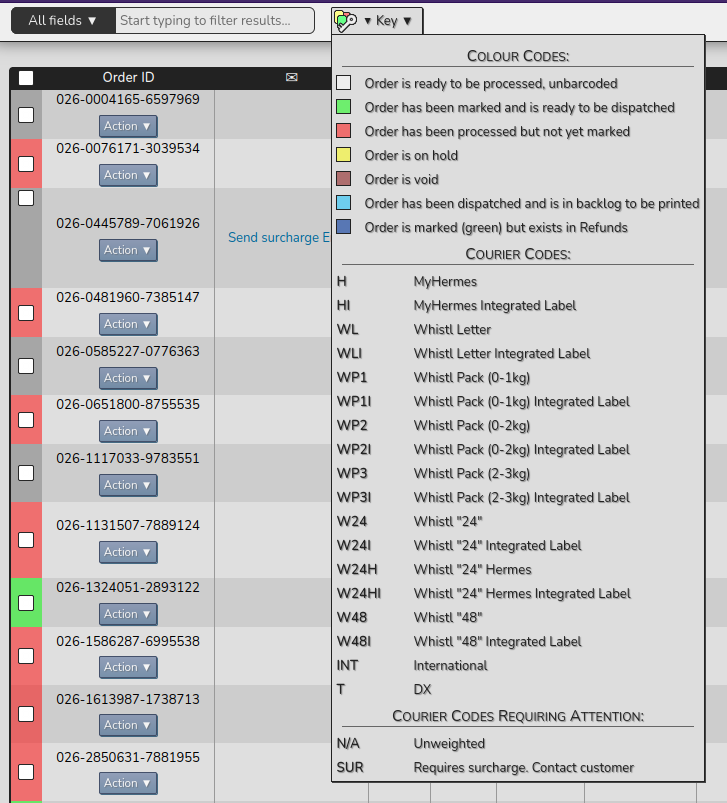
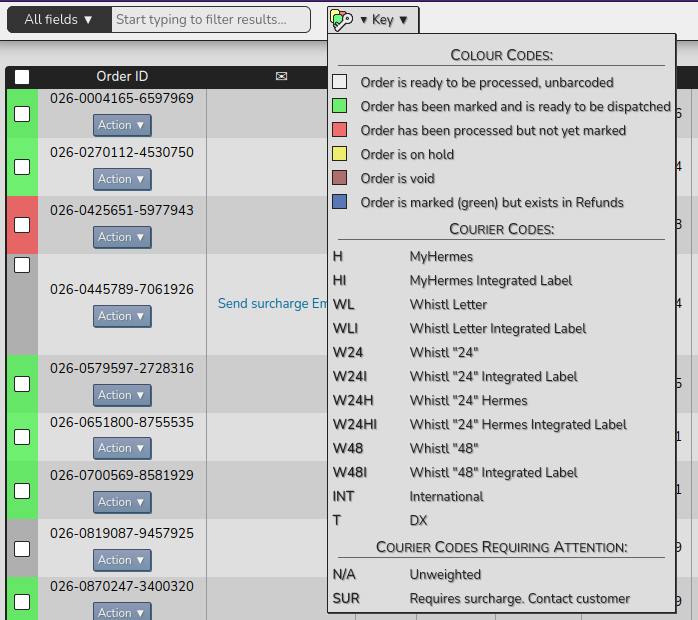
update README

Changed region(s): [[0.0, 0.0, 1.0, 1.0]]

diff --git a/README.md b/README.md
@@ -23,7 +23,7 @@ The `Action` menu in the top right has several batch operations that can be used
 
 ![Image of batch actions](docs/imgs/batch_actions.png)
 
-The 'Colour Codes', in the `Key` drop-down, explains the meaning of the colours on the far left of the order's row. In the example shown, the majority are grey (white) "Order is ready to be processed, unbarcoded" and red "Order has been processed but not yet marked". The green order (026-1324051-2893122) indicates that "Order has been marked and is ready to be dispatched".
+The 'Colour Codes', in the `Key` drop-down, explains the meaning of the colours on the far left of the order's row. In the example shown, the first 2 are green "Order has been marked and is ready to be dispatched". Then red "Order has been processed but not yet marked" and grey "Order is ready to be processed, unbarcoded".
 
 ![Image of view orders key](docs/imgs/vo_key.png)
 
@@ -32,9 +32,18 @@ Final notes: The product descriptions in the 'Items' column are hyperlinks that 
 
 ## Scan Barcodes
 
+The barcodes DB table stores the status of the order:
+
+* GENERATED (displays as red in View Orders)
+* MARKED (green)
+* VOID (brown)
+* HOLD (yellow)
+
+Nb. grey are orders that don't yet have a barcode
+
 ![Image of Scan Barcodes](docs/imgs/scan_barcodes.png)
 
-Lost focus
+The barcode scanner can only input barcodes if the page is in focus (green background). To signal this, the background turns red when focus is lost.
 
 ![Image of Scan Barcodes](docs/imgs/scan_barcodes_red.png)
 
